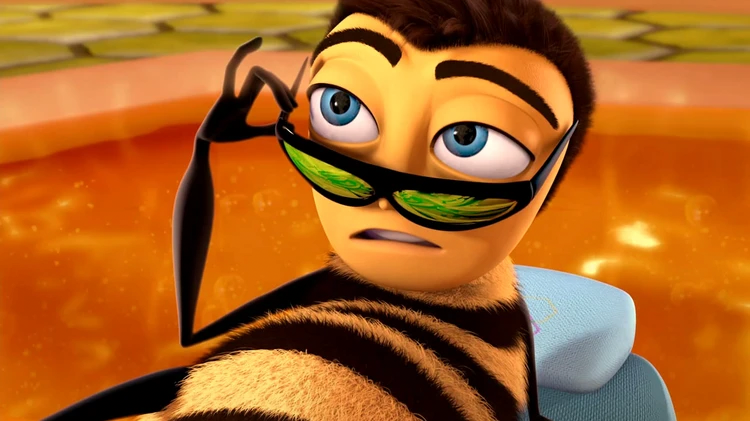
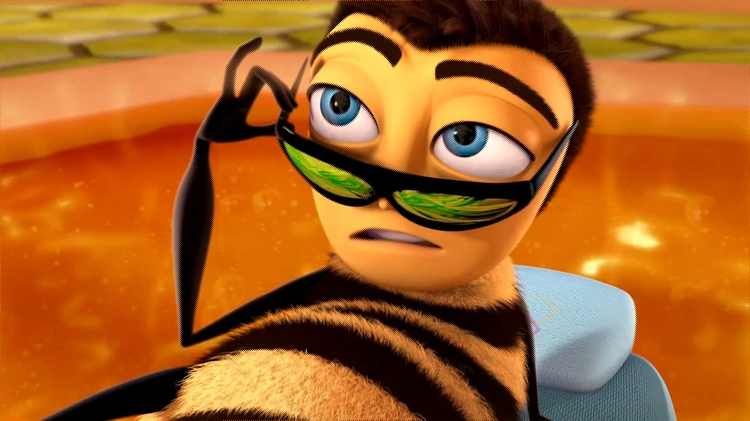
Supporte un peu la compression

diff --git a/ImageLossy.py b/ImageLossy.py
@@ -7,6 +7,7 @@ import PIL
 from Image import Image
 from BitIterator import BitIterator
 from nToNSquare import coordonneesChemin
+from math import ceil
 
 
 class ImageLossy(Image):
@@ -26,40 +27,174 @@ class ImageLossy(Image):
         bitIterator = BitIterator(payLoad)
         pixels = np.array(self)
 
-        maxBlockSize = np.floor(pixels.shape[1] * pixels.shape[0] * 3 / 8 / len(payLoad))
-        maxBlockSize = np.min(maxBlockSize, 5) #make sure the block aren't to great
-         
+        numColor = min(pixels.shape[2], 3)
+        numBlockPerColor = ceil(8 * len(payLoad) / numColor)
+        blockSize = ((pixels.shape[1] )* (pixels.shape[0]))  // numBlockPerColor
+        blockSize = min(blockSize, 5) #make sure the block aren't to great
+
+        allFreqs = []
         for i in range(min(pixels.shape[2], 3)):
-            freqs = np.fft.fftshift(pixels[:, :, i])
-            for x in range(pixels.shape[0]):
-                for y in range(pixels.shape[1]):
-                    freq = freqs[x, y]
-                    norm = np.linalg.norm(freq)
-                    a = 2
-                    try:
-                        to_add = next(bitIterator) * a / 2
-                        if norm == 0 : 
-                            freq = to_add 
-                        else: 
-                            freq = freq / norm * (norm - (norm % a) + to_add)
-                    except StopIteration:
-                        break
-                    freqs[x, y] = freq 
-            pixels[:, :, i] = np.fft.ifftshift(freqs)
+            allFreqs.append(np.fft.fftshift(pixels[:, :, i]))
+
+        curr_pos = (-1,0)
+        delta = (1,0)
+        x_min = 0 
+        x_max = pixels.shape[0] - 1
+        y_min = 0
+        y_max = pixels.shape[1] -  1
+        isDone = False
+        for i in range(numBlockPerColor) : 
+            
+            #Get block footstep
+            poses = []
+            for _ in range(blockSize):
+                next_pos = (curr_pos[0] + delta[0], curr_pos[1] + delta[1])
+
+                if next_pos[0] < x_min and delta[0] < 0 :
+                    y_max -= 1
+                    delta = (-delta[1], delta[0])
+                    curr_pos = (curr_pos[0] + delta[0], curr_pos[1] + delta[1])
+                elif next_pos[0] > x_max and delta[0] > 0:
+                    y_min += 1
+                    delta = (-delta[1], delta[0])
+                    curr_pos = (curr_pos[0] + delta[0], curr_pos[1] + delta[1])
+                elif next_pos[1] < y_min and delta[1] < 0 :
+                    x_min += 1
+                    delta = (-delta[1], delta[0])
+                    curr_pos = (curr_pos[0] + delta[0], curr_pos[1] + delta[1])
+                elif next_pos[1] > y_max and delta[1] > 0:
+                    x_max -= 1
+                    delta = (-delta[1], delta[0])
+                    curr_pos = (curr_pos[0] + delta[0], curr_pos[1] + delta[1])
+                else :
+                    curr_pos = next_pos
+                
+                poses.append(curr_pos)
+
+            for j in range(numColor):
+                freqs = []
+                for pos in poses:
+                    freqs.append(allFreqs[j][pos[0],pos[1]])
+                
+                norms = [np.linalg.norm(freq) for freq in freqs]
+
+                #Average frequencies or encode them all the same ?
+                meanNorm = sum(norms) / blockSize
+                a = 2
+                try:
+                    to_add = next(bitIterator) * a / 2
+                except StopIteration:
+                    isDone = True
+                    break
+                
+                newNorm = meanNorm - (meanNorm % a) + to_add
+
+                for k in range(blockSize):
+                    freq = freqs[k]
+                    norm = norms[k]
+                    pos = poses[k]
+                    if norm == 0:
+                        allFreqs[j][pos[0], pos[1]] = newNorm
+                    else:
+                        allFreqs[j][pos[0], pos[1]] = freq / norm * newNorm
+
+            if(isDone):
+                break
+        
+        maxNorms = 0
+        maxNormsColor = -1
+        existDifferent = False
+        for i in range(numColor):
+            normBlock1 = np.linalg.norm(allFreqs[i][0,0])
+            normBlock2 = np.linalg.norm(allFreqs[i][blockSize,0])
+            if normBlock1 != normBlock2 :
+                existDifferent = True
+                break
+            
+            if normBlock1 > maxNorms:
+                maxNorms = normBlock1
+                maxNormsColor = i
+        
+        if not existDifferent:
+            if maxNorms == 0:
+                for i in range(blockSize):
+                    allFreqs[maxNormsColor][i + blockSize, 0] = 2
+            else:
+                for i in range(blockSize):
+                    allFreqs[maxNormsColor][i + blockSize,0] *= (maxNorms + 2)  / maxNorms
+        
+
+        for i in range(numColor):
+            pixels[:, :, i] = np.fft.ifftshift(allFreqs[i])
 
         return ImageLossy.fromPILImage(PIL.Image.fromarray(pixels))
 
 
     def decode(self) -> bytes:
         pixels = np.array(self)
+        numColor = min(pixels.shape[2], 3)
+
+        allFreqs = []
+        for i in range(numColor):
+            allFreqs.append(np.fft.fftshift(pixels[:, :, i]))
+
+        #Finds the block's size
+        blockSize = 5 #Assume the blocksize is maximal
+        for i in range(numColor):
+            j = 1
+            currNorm = np.linalg.norm(allFreqs[i][0,0])
+            while j < blockSize :
+                nextNorm = np.linalg.norm(allFreqs[i][j, 0])
+                if abs(currNorm - nextNorm )> .5 : 
+                    blockSize = j 
+                j += 1
+        
+        numBlockPerColor = ((pixels.shape[1] -2)* (pixels.shape[0]- 2)) // blockSize
         bits = []
-        for i in range(min(pixels.shape[2], 3)):
-            freqs = np.fft.fftshift(pixels[:, :, i])
-            for x in range(pixels.shape[0]):
-                for y in range(pixels.shape[1]):
-                    freq = freqs[x, y]
-                    norm = np.linalg.norm(freq)
-                    bits.append(round(norm) % 2)
+
+        curr_pos = (-1,0)
+        delta = (1,0)
+        x_min = 0 
+        x_max = pixels.shape[0] - 1
+        y_min = 0
+        y_max = pixels.shape[1] -  1
+
+        for i in range(numBlockPerColor) : 
+            
+            #Get block footstep
+            poses = []
+            for _ in range(blockSize):
+                next_pos = (curr_pos[0] + delta[0], curr_pos[1] + delta[1])
+
+                if next_pos[0] < x_min and delta[0] < 0 :
+                    y_max -= 1
+                    delta = (-delta[1], delta[0])
+                    curr_pos = (curr_pos[0] + delta[0], curr_pos[1] + delta[1])
+                elif next_pos[0] > x_max and delta[0] > 0:
+                    y_min += 1
+                    delta = (-delta[1], delta[0])
+                    curr_pos = (curr_pos[0] + delta[0], curr_pos[1] + delta[1])
+                elif next_pos[1] < y_min and delta[1] < 0 :
+                    x_min += 1
+                    delta = (-delta[1], delta[0])
+                    curr_pos = (curr_pos[0] + delta[0], curr_pos[1] + delta[1])
+                elif next_pos[1] > y_max and delta[1] > 0:
+                    x_max -= 1
+                    delta = (-delta[1], delta[0])
+                    curr_pos = (curr_pos[0] + delta[0], curr_pos[1] + delta[1])
+                else :
+                    curr_pos = next_pos
+                
+                poses.append(curr_pos)
+
+            for j in range(numColor):
+                freqs = []
+                for pos in poses:
+                    freqs.append(allFreqs[j][pos[0],pos[1]])
+                
+                norms = [np.linalg.norm(freq) for freq in freqs]
+                bits.append(round(sum(norms) / blockSize) % 2)
+
         data = []
         for batch in batched(bits, 8):
             value = sum(v << i for i, v in enumerate(batch))
@@ -67,13 +202,12 @@ class ImageLossy(Image):
         fileSize = int.from_bytes(data[0:4], byteorder= "big")
         return bytes(data[4:fileSize + 4])
 
-
 if __name__ == "__main__":
-    test_image = ImageLossy.fromPILImage(PIL.Image.open("./bee-ception.png").copy())
-    #with open("test.txt", "r") as file :
-        #text = file.read()
-        #message = text.encode("utf-8")
-    #test_image = test_image.encode(message)
-    #test_image.save("./bee-ception.png")
+    test_image = ImageLossy.fromPILImage(PIL.Image.open("./b.webp").copy())
+    with open("test.txt", "r") as file :
+        text = file.read()
+        message = text.encode("utf-8")
+    test_image = test_image.encode(message)
+    test_image.save("./bee-ception.png")
     data = test_image.decode()
     print(data.decode("utf-8"))
